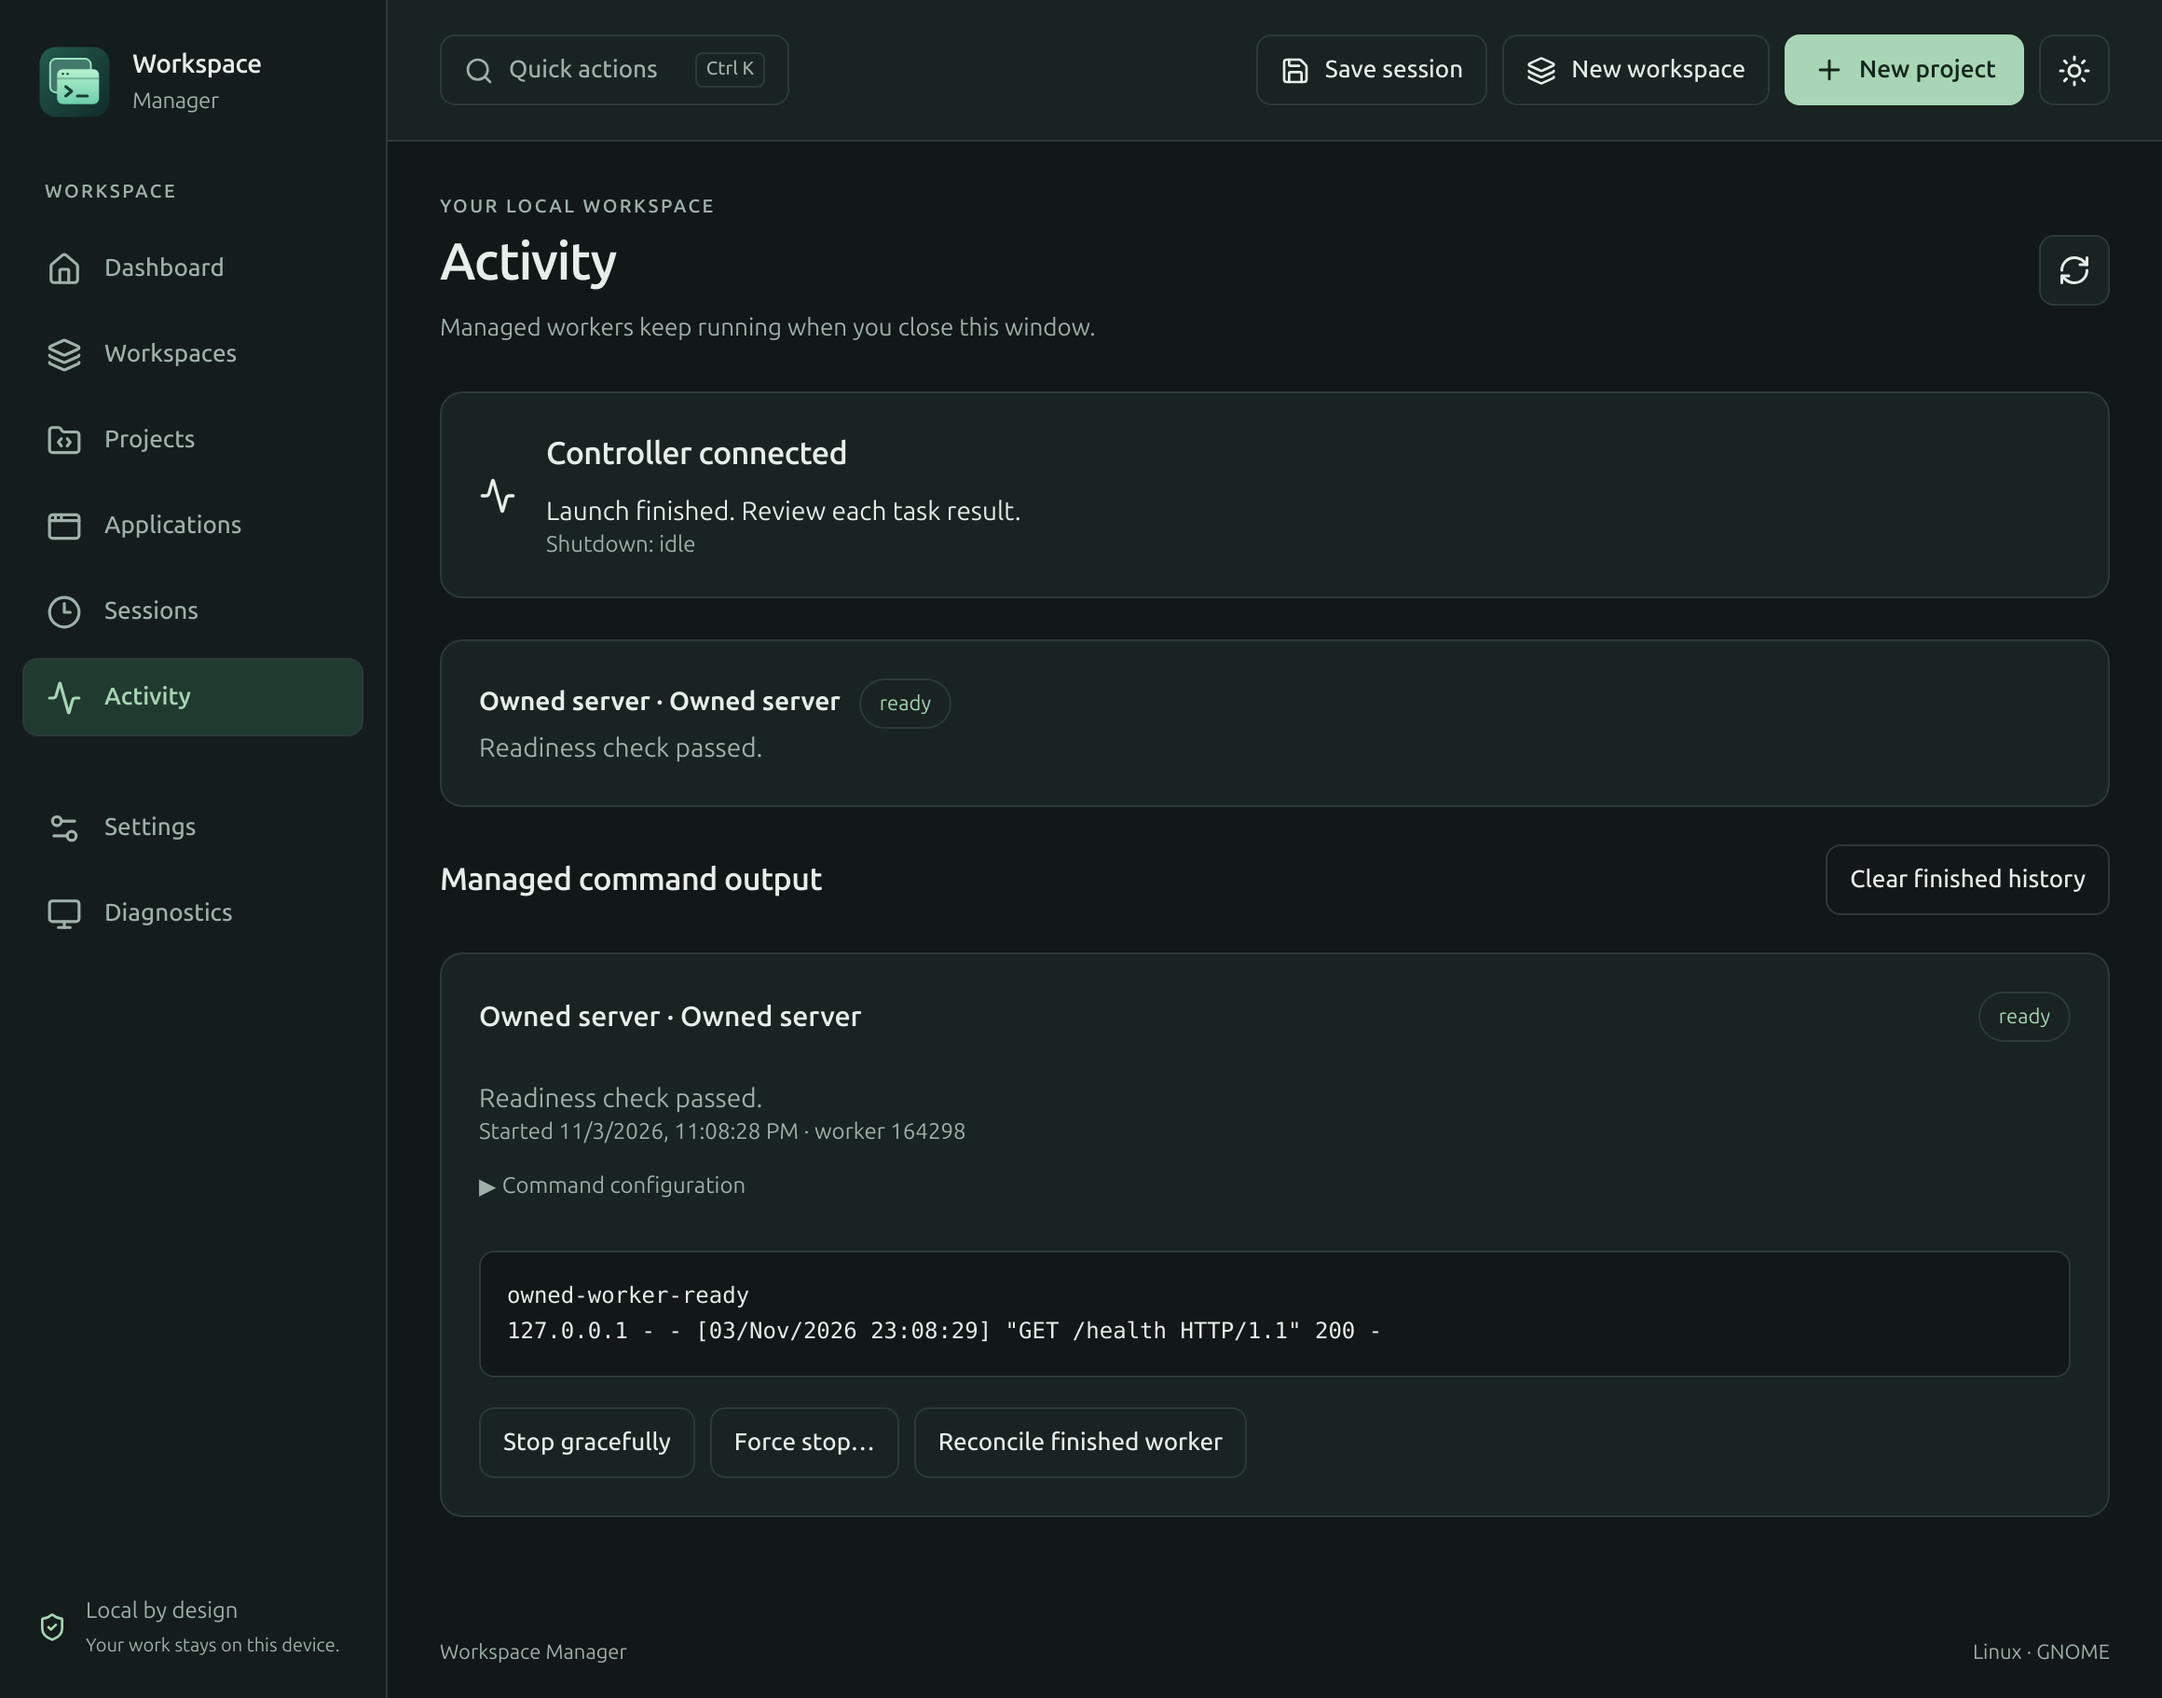
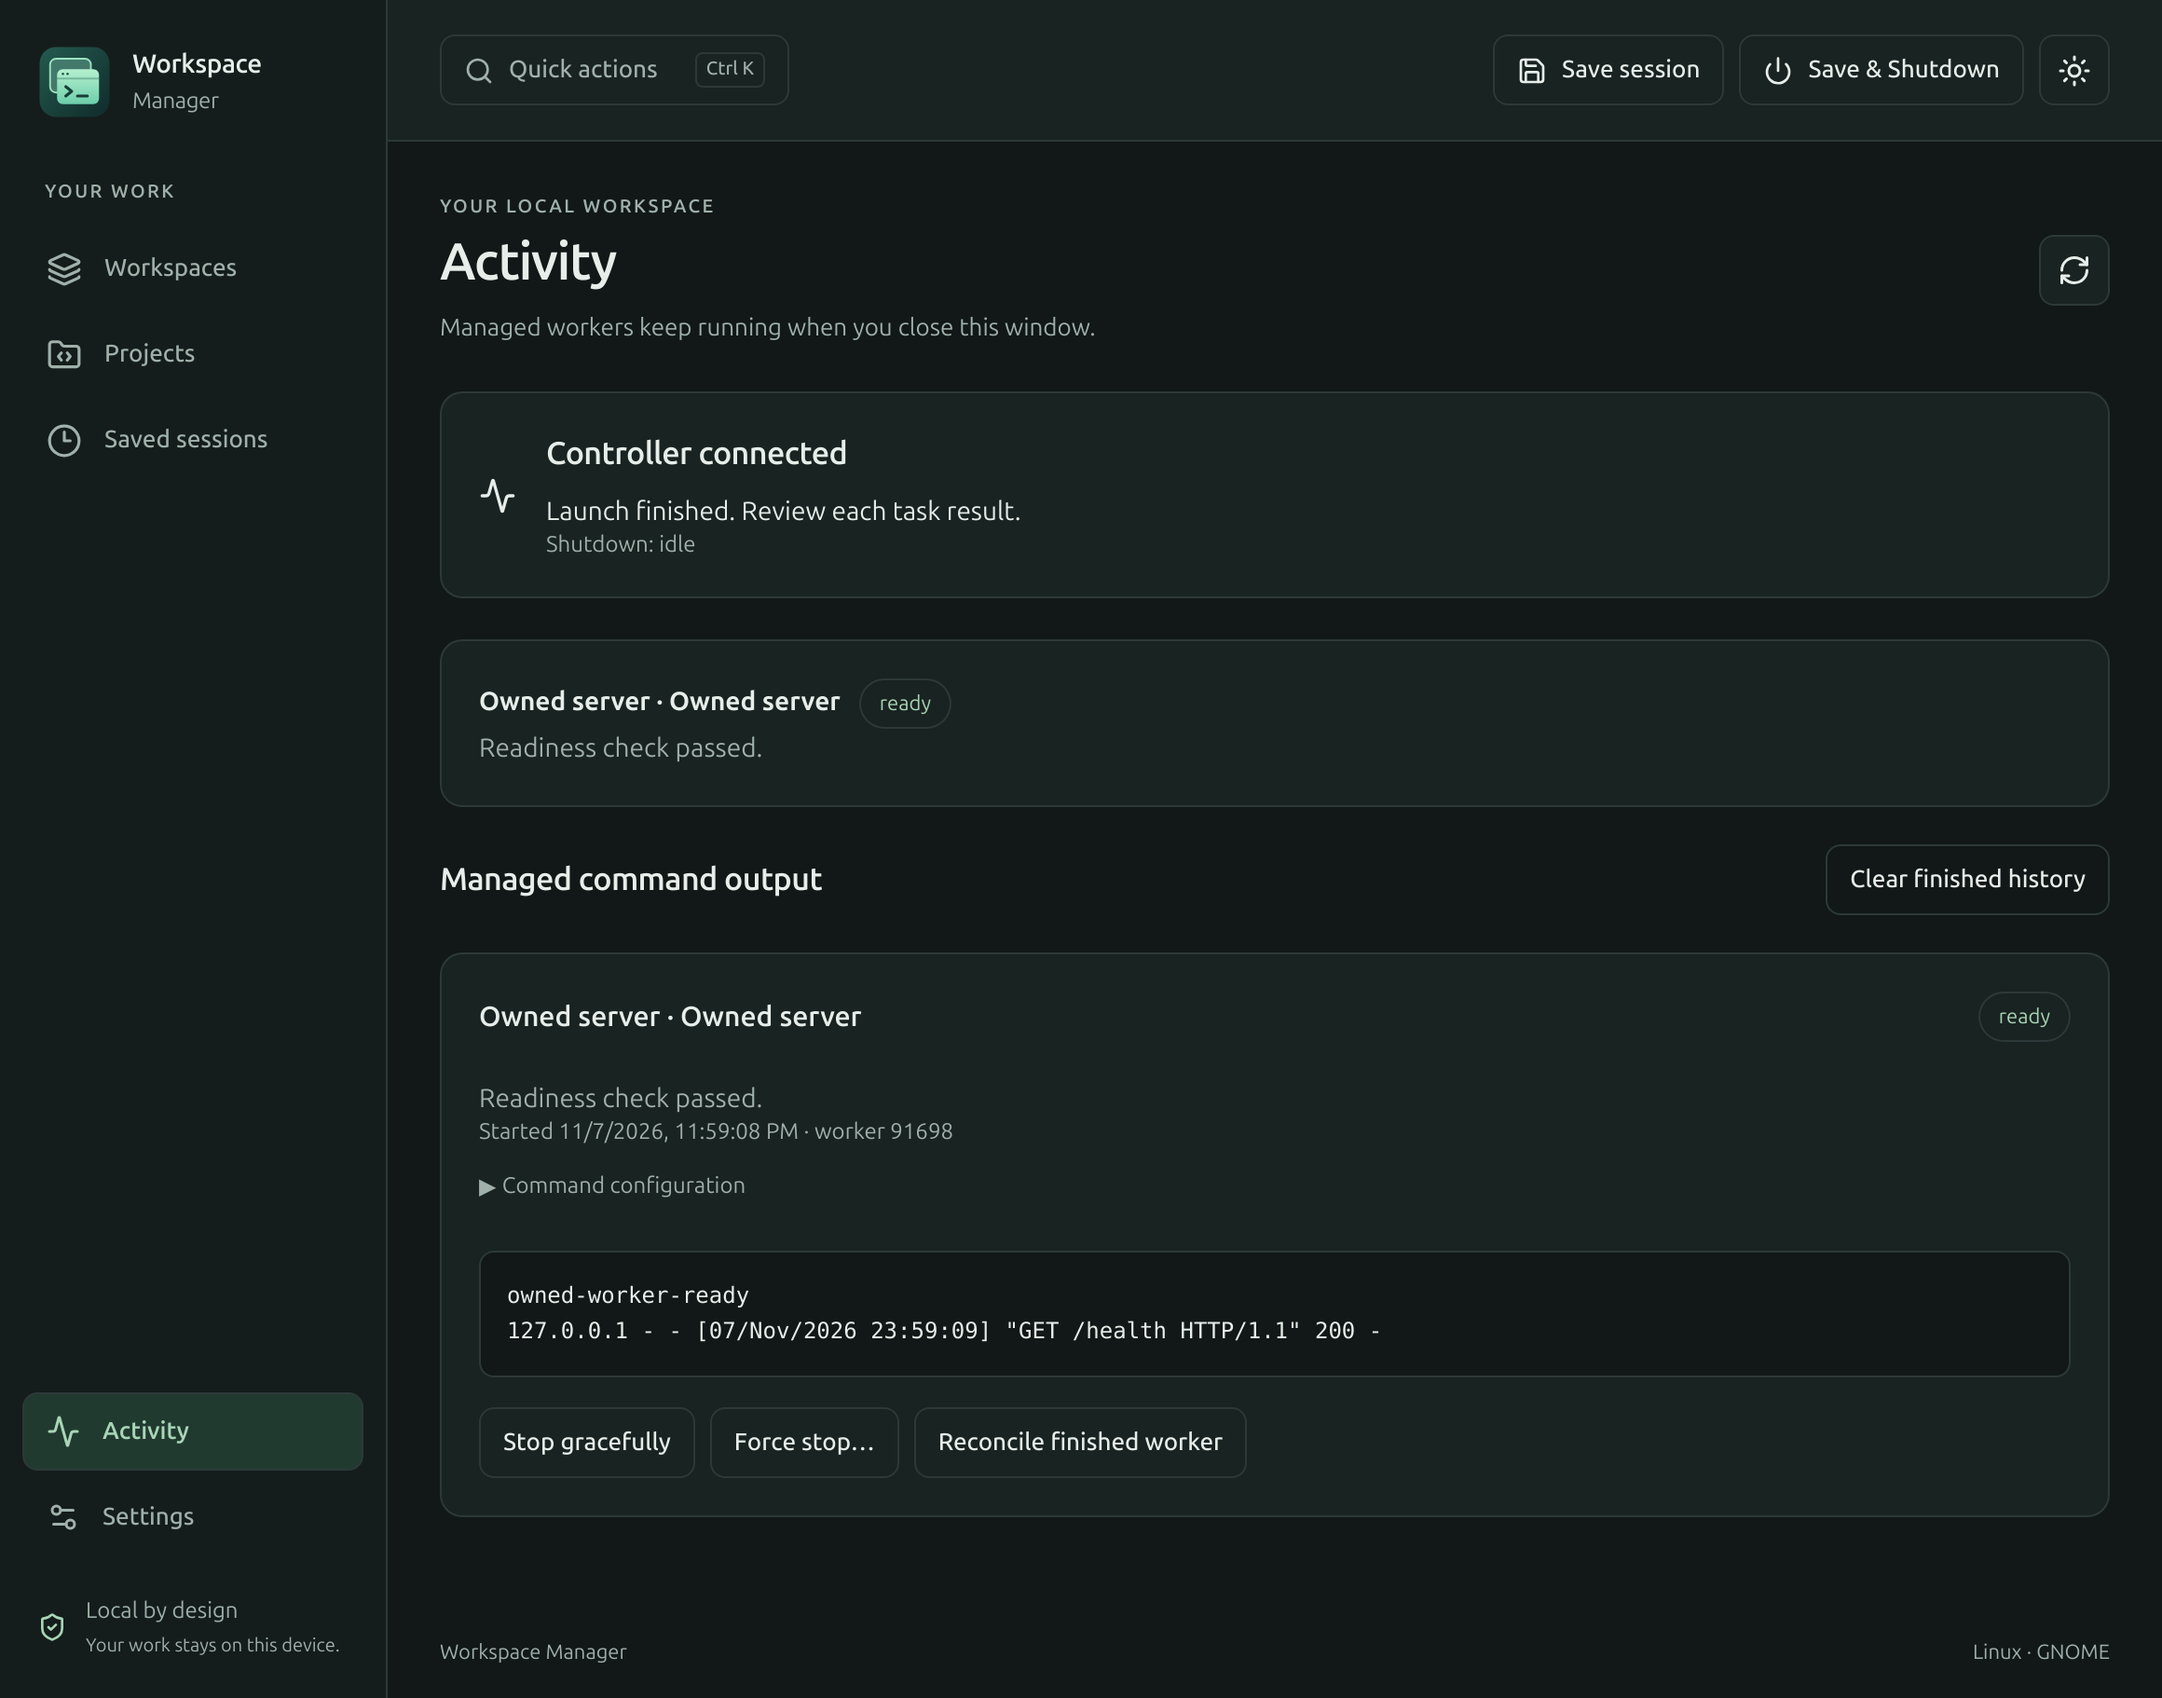
docs: update README and screenshots

diff --git a/README.md b/README.md
@@ -2,9 +2,9 @@
 
 A local Linux developer workspace manager built with Go, Wails v3, React and TypeScript.
 
-![Workspace home](docs/screenshots/dashboard.png)
+![Workspaces home](docs/screenshots/dashboard.png)
 
-[Activity](docs/screenshots/activity.png) · [Sessions](docs/screenshots/sessions.png)
+[Activity](docs/screenshots/activity.png) · [Saved sessions](docs/screenshots/sessions.png)
 — captured from an isolated native test workspace.
 
 ## Features
@@ -13,8 +13,8 @@ A local Linux developer workspace manager built with Go, Wails v3, React and Typ
 - Import projects; review literal commands, editors, environment references and previews.
 - Launch ordered applications/projects with delays, readiness checks and duplicate prevention.
 - Keep managed servers running after the GUI closes; reconnect to bounded logs and stop controls.
-- Save, restore, branch and revise sessions with recoverable history.
-- Configure reviewed fixed, session restore or hybrid login startup.
+- Save, restore, duplicate and update sessions with recoverable version history.
+- Choose a workspace, a saved session or both to open after login.
 - Save and verify a snapshot before gracefully stopping managed services and opening normal GNOME shutdown.
 
 V1 implementation is available. Real logout/login, power-off, X11, assistive-technology
@@ -62,13 +62,18 @@ state; `--stop-controller` disconnects the controller while preserving workers.
 
 ## Daily workflow
 
-1. Start in Workspaces. Add your apps/projects, then launch the workspace from its card.
-   `Ctrl+K` opens quick actions from any screen.
-2. Use Projects to create or import code; use Saved sessions to resume a captured setup.
-3. Approve project startup configuration, then review and launch the workspace.
-4. Use Activity for progress and output. App browsing and diagnostics live in Settings.
-5. Save a named session using the top bar; a name is suggested for you. Restore it or save an independent branch from Sessions.
-6. Review login startup in Settings. Save & Shutdown is available from the top bar.
+The three main sections are **Workspaces**, **Projects** and **Saved sessions**.
+A workspace is a reusable setup; a saved session captures what is open at one point in time.
+
+1. In Workspaces, create a workspace and add apps/projects. Review project startup
+   commands, then click **Launch**. **More** contains launch preferences and other occasional actions.
+2. Use Projects to create, import or launch individual projects. Activity shows running
+   services, output and stop controls.
+3. Use **Save session** in the top bar to capture your current setup. In Saved sessions,
+   click **Restore** to resume it or **Duplicate** to make a copy; **More** contains updates and version history.
+4. Open Settings to choose what starts after login. App library and Diagnostics are under **Tools & help**.
+5. Use **Save & Shutdown** to review and save your session before shutdown. It is available
+   in the top bar and on Saved sessions. `Ctrl+K` opens searchable quick actions from any screen.
 
 Native fixture checks: build with `go build -tags production,mcp -o bin/workspace-manager-smoke .`,
 then run `python3 scripts/native-smoke.py --lifecycle-only` in a graphical session.
